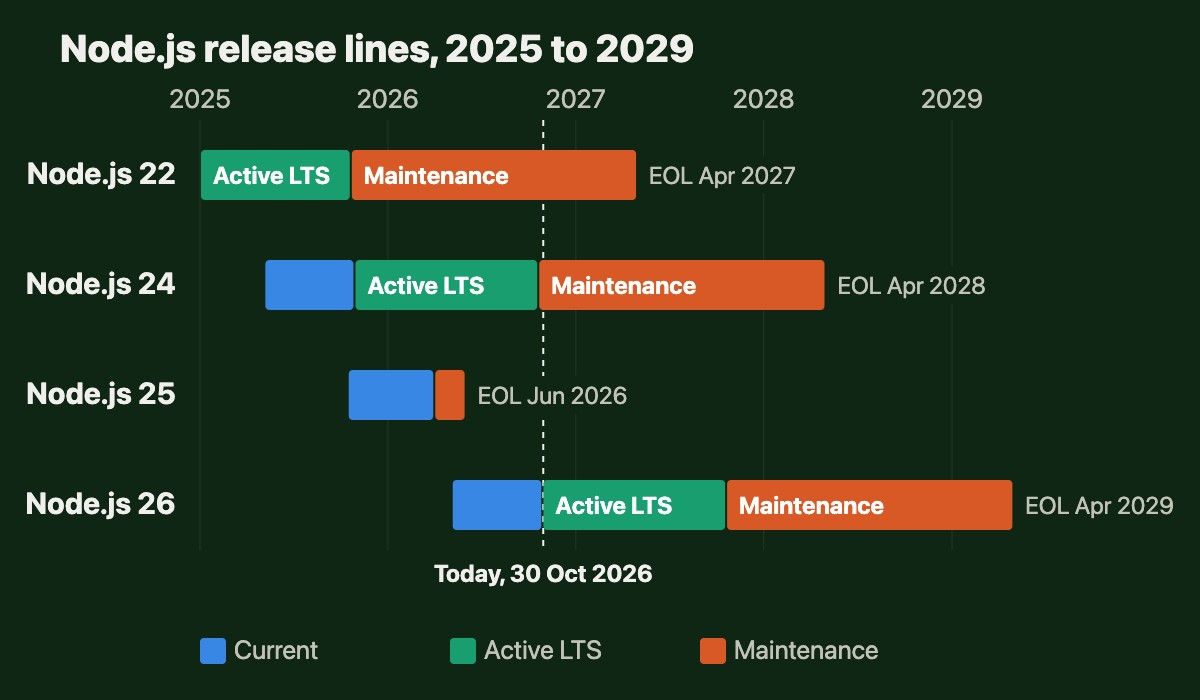
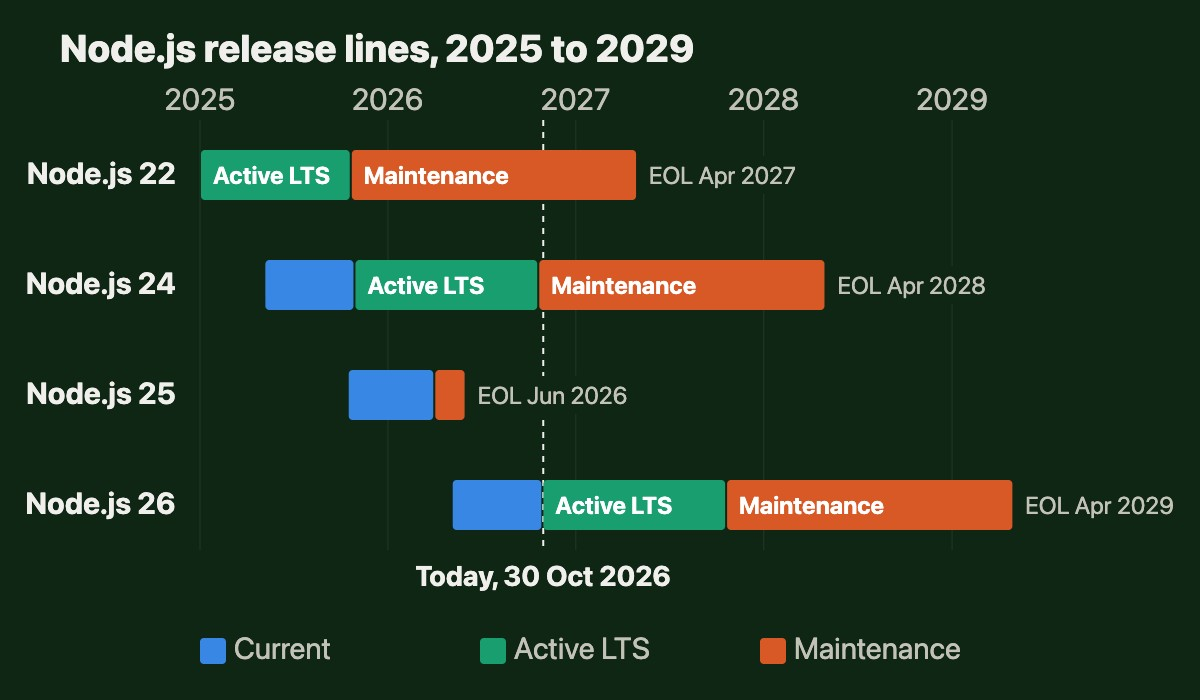
Node.js 26 post: third review round, clearer images and a better grep
- Checklist grep finds destructured W_OK, require('fs').R_OK, multi-line
  rmdir and files outside src; tested against positive and negative cases.
- libatomic wording matches the Docker facts (custom or distroless images).
- Node.js 22 in the schedule, when Node.js 27 becomes LTS, the Web Storage
  caveats, the localStorage warning text, ESM import errors for SlowBuffer
  and W_OK, F_OK, NODE_OPTIONS=--throw-deprecation for any test runner.
- Temporal map shows one meeting in every type; larger timeline labels.

diff --git a/src/blog/posts/node-js-26-lts-whats-new-and-how-to-upgrade/index.md b/src/blog/posts/node-js-26-lts-whats-new-and-how-to-upgrade/index.md
@@ -6,7 +6,7 @@ On 28 October 2026, Node.js 26 became the [Long Term Support](https://ciunkos.co
 Because 26 includes everything from the short-lived Node.js 25, the jump covers two releases. JavaScript gets Temporal, a date and time API that handles time zones, the V8 engine brings a handful of language features, and a few long-deprecated APIs are gone. If you only need the migration steps, skip to [Breaking changes](#breaking-changes) or the [checklist](#checklist).
 
 > [!TLDR]
-> Plan the upgrade for the next few months. Most apps need a version bump, a rebuild of native addons and, on slim Linux images, `libatomic`. Search for `fs.W_OK` and friends by hand, because that break is silent. In return you get Temporal, new JavaScript from V8 14.6 and support until 30 April 2029.
+> Plan to upgrade within the next few months. Most apps need a version bump, a rebuild of native addons and, on custom or distroless Linux images, `libatomic`. Run the codemods, then search by hand for `fs.W_OK`, which now fails silently. In return you get Temporal, new JavaScript from V8 14.6 and support until 30 April 2029.
 
 ## Release schedule {#schedule}
 
@@ -21,11 +21,12 @@ Where each line stands, per the [Node.js release schedule](https://github.com/no
 
 - Node.js 26 is Active LTS until 20 October 2027, then gets maintenance fixes until its end of life on 30 April 2029.
 - Node.js 24 has been in Maintenance since 20 October 2026, which means security and critical bug fixes only, until 30 April 2028.
+- Node.js 22 has been in Maintenance since October 2025 and reaches end of life on 30 April 2027. If you're still on 22, it's the more urgent upgrade.
 - Node.js 25, the odd-numbered release in between, reached end of life in June 2026.
 
 ![Support phases of Node.js 22, 24, 25 and 26. Node.js 22's earlier phases start before 2025, off the left edge.](./images/support-timeline.jpg)
 
-You have a year and a half before Node.js 24 stops getting security patches, so nobody needs to upgrade tonight. But Temporal, the new JavaScript features and network permissions won't come to 24.
+You have a year and a half before Node.js 24 stops getting security patches, so nobody needs to upgrade tonight. But Temporal, the new JavaScript features and network permissions won't come to 24. Waiting for the next LTS doesn't buy much either, because Node.js 27 only becomes LTS in October 2027.
 
 ## Temporal is here {#temporal}
 
@@ -54,7 +55,7 @@ Temporal.Duration.from({ hours: 1, minutes: 90 })
 // 'PT2H30M'
 ```
 
-The hardest part of Temporal is picking the right type. Pick the one that matches what you actually know. If you know the day but not the time, use `PlainDate`. If you know the city, use `ZonedDateTime`. If you only need a point in time, like a log timestamp, use `Instant`.
+The hardest part of Temporal is choosing a type, so match it to what you know. A day with no time, like a birthday, is a `PlainDate`. A date, a time and a time zone, like a 15:00 meeting in Warsaw, make a `ZonedDateTime`. A point in time with no place, like a log timestamp, is an `Instant`.
 
 ![The six Temporal types you'll use most, with an example value and a typical use for each](./images/temporal-types.jpg)
 
@@ -80,7 +81,7 @@ Node.js 26 ships V8 14.6 (up from 13.6) and [Undici](https://github.com/nodejs/u
 
 ### New JavaScript {#v8}
 
-A common loop looks up a key, creates a default if it's missing, then updates it. V8 14.6 gives `Map` and `WeakMap` [`getOrInsert()`](https://developer.mozilla.org/en-US/docs/Web/JavaScript/Reference/Global_Objects/Map/getOrInsert) and [`getOrInsertComputed()`](https://developer.mozilla.org/en-US/docs/Web/JavaScript/Reference/Global_Objects/Map/getOrInsertComputed) for exactly that:
+A common loop looks up a key, creates a default if it's missing, then updates it. V8 14.6 gives `Map` and `WeakMap` [`getOrInsert()`](https://developer.mozilla.org/en-US/docs/Web/JavaScript/Reference/Global_Objects/Map/getOrInsert) and [`getOrInsertComputed()`](https://developer.mozilla.org/en-US/docs/Web/JavaScript/Reference/Global_Objects/Map/getOrInsertComputed) for that:
 
 ```javascript
 const byAuthor = new Map()
@@ -122,7 +123,7 @@ V8 also made [`JSON.stringify` faster](https://v8.dev/blog/json-stringify) for p
 
 ### Web Storage {#web-storage}
 
-[`localStorage` and `sessionStorage`](https://developer.mozilla.org/en-US/docs/Web/API/Web_Storage_API) no longer need a flag, though the API is still a release candidate. `sessionStorage` lives in memory for the life of the process. `localStorage` persists to a file you choose, which suits CLIs and code shared with the browser. Treat it as a small key-value file:
+[`localStorage` and `sessionStorage`](https://developer.mozilla.org/en-US/docs/Web/API/Web_Storage_API) no longer need a flag, though the API is still a release candidate. `sessionStorage` lives in memory for the life of the process. `localStorage` persists to a file you choose, which suits CLIs and code shared with the browser. Treat it as a small key-value file. The data is stored unencrypted, capped at 10 MB, and in a server it's shared across all users and requests:
 
 ```bash
 node --localstorage-file=./storage.db app.js
@@ -147,7 +148,7 @@ Audit mode, [`--permission-audit`](https://nodejs.org/docs/latest-v26.x/api/cli.
 
 ### Tooling and experiments {#tooling}
 
-- [`--process-timeout=30s`](https://nodejs.org/docs/latest-v26.x/api/cli.html#--process-timeoutduration) stops a process that is still running after 30 seconds with exit code 124, like `timeout(1)`, and first prints which handles kept it alive. It's useful for scripts and CI jobs that finish their work and then hang.
+- New in 26.11.0, [`--process-timeout=30s`](https://nodejs.org/docs/latest-v26.x/api/cli.html#--process-timeoutduration) stops a process that is still running after 30 seconds with exit code 124, like `timeout(1)`, and first prints which handles kept it alive. It's useful for scripts and CI jobs that finish their work and then hang.
 - `node --build-sea=sea-config.json` builds a [single executable application](https://nodejs.org/docs/latest-v26.x/api/single-executable-applications.html) in one step, and SEA now supports ESM entry points.
 - `node:zlib` can read and write ZIP archives with [`ZipFile`](https://nodejs.org/docs/latest-v26.x/api/zlib.html#class-zlibzipfile) and `ZipBuffer`, still marked experimental.
 - Alpine Linux moved to tier 2 support in 26.11.0, and nodejs.org now publishes an official `linux-x64-musl` build next to the glibc ones.
@@ -173,13 +174,13 @@ await save('Hello')
 randomUUIDv7() // '01a18c3b-414f-76ff-9865-53facb82bd1e'
 ```
 
-The options differ from lodash's, so read the [`util.debounce()`](https://nodejs.org/docs/latest-v26.x/api/util.html#utildebouncefn-wait-options) docs before you swap it in. [`util.throttle()`](https://nodejs.org/docs/latest-v26.x/api/util.html#utilthrottlefn-limit-interval-options) is a rate limiter, `throttle(fn, limit, interval)`, that allows a number of calls per interval, which is a different shape from lodash's `throttle(fn, wait)`.
+The options differ from lodash's, so read the [`util.debounce()`](https://nodejs.org/docs/latest-v26.x/api/util.html#utildebouncefn-wait-options) docs before you swap it in. [`util.throttle()`](https://nodejs.org/docs/latest-v26.x/api/util.html#utilthrottlefn-limit-interval-options) is a rate limiter, `throttle(fn, limit, interval)`, that allows a number of calls per interval, unlike lodash's `throttle(fn, wait)`.
 
 If you use UUIDs as primary keys, generate [v7](https://www.rfc-editor.org/rfc/rfc9562.html#name-uuid-version-7) for new rows. A v4 UUID lands at a random spot in the index on every insert. A v7 UUID starts with a timestamp, so new rows go to the end of a B-tree index. The trade-off is that anyone who sees the ID can read when the row was created.
 
 Also backported to 24:
 
-- Incoming HTTP requests have [`req.signal`](https://nodejs.org/docs/latest-v26.x/api/http.html#messagesignal) (`message.signal` in the docs), an [`AbortSignal`](https://developer.mozilla.org/en-US/docs/Web/API/AbortSignal) that fires when the client disconnects. Pass it to `fetch()` or a database query, and the work stops when nobody is waiting for it.
+- Incoming HTTP requests have [`req.signal`](https://nodejs.org/docs/latest-v26.x/api/http.html#messagesignal), an [`AbortSignal`](https://developer.mozilla.org/en-US/docs/Web/API/AbortSignal) that fires when the client disconnects. Pass it to `fetch()` or a database query, and the work stops when nobody is waiting for it.
 - `process.permission.drop()` lets a process give up permissions it no longer needs, for example after reading its config files.
 - `node --test --test-randomize` runs tests in random order to expose tests that only pass because another one ran first. The [test runner](https://nodejs.org/docs/latest-v26.x/api/test.html) can also mark tests as expected to fail, and `context.log()` writes into the report.
 - [Subpath imports](https://nodejs.org/docs/latest-v26.x/api/packages.html#subpath-imports) can start with `#/`, so `#/utils/date.js` can map straight onto your `src` folder.
@@ -243,7 +244,7 @@ If a package has no build for Node.js 26 yet, update it. If it's abandoned, look
 
 These were [deprecated](https://nodejs.org/docs/latest-v26.x/api/deprecations.html), most of them for years, and are now gone. Each has a short fix, and several have an [official codemod](https://github.com/nodejs/userland-migrations) that makes the change for you.
 
-Start with the `fs` access constants, because this one fails silently. `fs.R_OK`, `fs.W_OK` and `fs.X_OK` are now `undefined`, and `fs.accessSync(file, undefined)` only checks that the file exists. A permission check that used them still passes on Node.js 26, even for a read-only file. Move to [`fs.constants`](https://nodejs.org/docs/latest-v26.x/api/deprecations.html#DEP0176):
+Start with the `fs` access constants, because this one fails silently. `fs.R_OK`, `fs.W_OK` and `fs.X_OK` are now `undefined`, and `fs.accessSync(file, undefined)` only checks that the file exists. A permission check that used them still passes on Node.js 26, even for a read-only file. A destructured `const { W_OK } = require('fs')` is just as silent; only `import { W_OK } from 'node:fs'` fails loudly, with a `SyntaxError` at load. `fs.F_OK` is gone too, but it was the default anyway. Move to [`fs.constants`](https://nodejs.org/docs/latest-v26.x/api/deprecations.html#DEP0176):
 
 ```javascript
 // before: on Node.js 26 this passes even if the file is read-only
@@ -256,7 +257,7 @@ fs.accessSync(file, fs.constants.W_OK)
 npx codemod@latest @nodejs/fs-access-mode-constants
 ```
 
-[`SlowBuffer`](https://nodejs.org/docs/latest-v26.x/api/deprecations.html#DEP0030) is gone, and code using it throws `TypeError: SlowBuffer is not a constructor`. Use `Buffer.allocUnsafeSlow()`:
+[`SlowBuffer`](https://nodejs.org/docs/latest-v26.x/api/deprecations.html#DEP0030) is gone. CommonJS code using it throws `TypeError: SlowBuffer is not a constructor`, and an ESM `import { SlowBuffer } from 'node:buffer'` fails at load with a `SyntaxError`. Use `Buffer.allocUnsafeSlow()`:
 
 ```bash
 npx codemod@latest @nodejs/slow-buffer-to-buffer-alloc-unsafe-slow
@@ -313,7 +314,7 @@ type Status = typeof Status[keyof typeof Status]
 
 ### localStorage exists on the server {#localstorage}
 
-With Web Storage on by default, `globalThis` has a [`localStorage`](https://nodejs.org/docs/latest-v26.x/api/globals.html#localstorage) property on the server. Unless you pass `--localstorage-file`, its value is `undefined`. Code that detects the browser by checking for the property now takes the wrong branch and crashes with `TypeError: Cannot read properties of undefined (reading 'getItem')`:
+With Web Storage on by default, `globalThis` has a [`localStorage`](https://nodejs.org/docs/latest-v26.x/api/globals.html#localstorage) property on the server. Unless you pass `--localstorage-file`, its value is `undefined`, and reading it prints `ExperimentalWarning: localStorage is not available because --localstorage-file was not provided`. Code that detects the browser by checking for the property now takes the wrong branch and crashes with `TypeError: Cannot read properties of undefined (reading 'getItem')`:
 
 ```javascript
 // breaks: the property exists, but its value is undefined
@@ -367,13 +368,13 @@ A `load` hook that awaits a file read has to switch to `readFileSync`. The objec
 3. Install [`libatomic`](#libatomic) on Linux machines and images that lack it.
 4. Replace `corepack enable` with a [global install](#corepack), if you use Corepack.
 5. Delete `node_modules`, install again, and let [native addons](#native-addons) rebuild.
-6. Run the official codemods for the [removed APIs](#removed-apis), then search for what's left by hand, since `fs.R_OK`, `fs.W_OK` and `fs.X_OK` fail silently. This finds all of them, plus `SlowBuffer`, `_stream_*`, `writeHeader()` and recursive `rmdir()`:
+6. Run the official codemods for the [removed APIs](#removed-apis), then search for what's left by hand, since `fs.R_OK`, `fs.W_OK` and `fs.X_OK` fail silently. This lists every candidate, including destructured imports, for you to check:
 
    ```bash
-   grep -rnE "fs\.[RWX]_OK|SlowBuffer|_stream_[a-z]+|writeHeader|rmdir(Sync)?\(.*recursive" src
+   grep -rnE "[RWX]_OK|SlowBuffer|_stream_|writeHeader|rmdir" --exclude-dir=node_modules . | grep -v "constants\.[RWX]_OK"
    ```
 
-7. Run your tests with `node --throw-deprecation`, so every deprecation fails loudly instead of scrolling past in the logs.
+7. Run your tests with `NODE_OPTIONS=--throw-deprecation`, so every deprecation fails loudly instead of scrolling past in the logs.
 8. Deploy to staging and watch for `DeprecationWarning` and `ExperimentalWarning` before you go to production.
 9. If you maintain a library, keep Node.js 24 in the CI matrix until it reaches end of life in April 2028.
 
@@ -397,7 +398,7 @@ Yes. Temporal is enabled by default in Node.js 26 and available as a global, wit
 
 ### What breaks when upgrading from Node.js 24 to 26? {#faq-breaking}
 
-The usual suspects are `libatomic` on slim Linux images, the missing Corepack, native addons built against V8 directly, and removed APIs like `SlowBuffer` and `fs.R_OK`, the last of which fails silently. [Breaking changes](#breaking-changes) covers each one with its fix.
+The usual suspects are `libatomic` on custom or distroless Linux images, the missing Corepack, native addons built against V8 directly, and removed APIs like `SlowBuffer` and `fs.R_OK`, the last of which fails silently. [Breaking changes](#breaking-changes) covers each one with its fix.
 
 ### Do I need to rebuild native addons for Node.js 26? {#faq-native-modules}
 
@@ -405,7 +406,7 @@ Only if they aren't built on Node-API. Addons compiled against V8 directly, or t
 
 ## Need a hand? {#hire}
 
-Upgrading a large or long-lived Node.js codebase is where these changes pile up: native addons, custom loaders, old dependencies on removed internals, and a CI matrix with five places to bump. That's the kind of work I take on for clients. If you'd rather hand it off, [see how I work](https://ciunkos.com/hire-me).
+In a large or long-lived Node.js codebase these changes pile up, in native addons, custom loaders, old dependencies on removed internals and a CI matrix with five places to bump. That's the kind of work I take on for clients. If you'd rather hand it off, [see how I work](https://ciunkos.com/hire-me).
 
 ## Sources {#sources}
 
